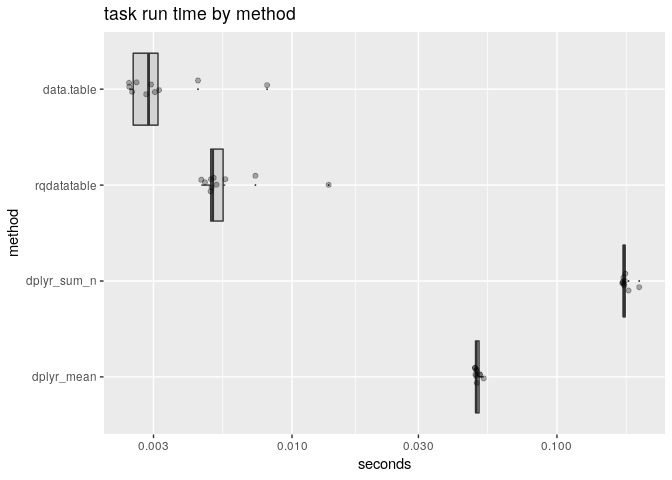
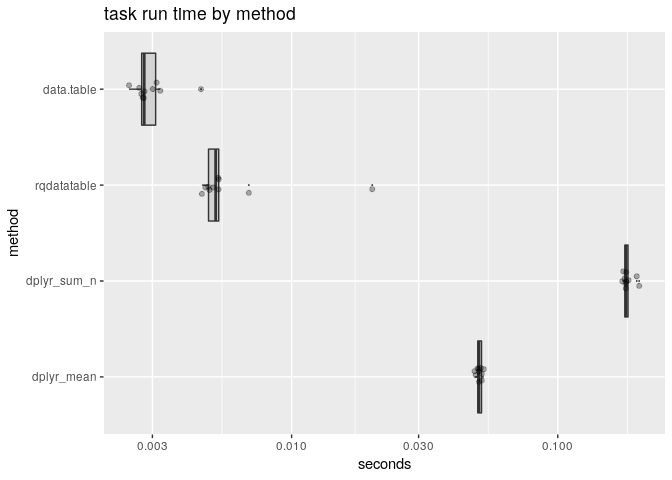
larger example

diff --git a/extras/TimingGroupedMean.md b/extras/TimingGroupedMean.md
@@ -110,15 +110,15 @@ print(timings)
 
     ## Unit: milliseconds
     ##         expr        min         lq       mean     median         uq
-    ##   dplyr_mean  49.044216  49.255479  50.118332  49.613274  51.134114
-    ##  dplyr_sum_n 176.818689 177.665255 181.987126 179.174948 180.996072
-    ##  rqdatatable   4.542537   4.930214   6.095619   5.016496   5.599747
-    ##   data.table   2.425419   2.489957   3.433191   2.874385   3.147625
+    ##   dplyr_mean  48.666778  49.936418  50.706373  50.533701  51.797656
+    ##  dplyr_sum_n 174.673685 178.183725 183.502817 180.411104 184.421786
+    ##  rqdatatable   4.604693   4.859366   6.713337   5.187235   5.326155
+    ##   data.table   2.451022   2.724500   3.010058   2.794454   3.111439
     ##         max neval
-    ##   52.935500    10
-    ##  204.358822    10
-    ##   13.749040    10
-    ##    8.048678    10
+    ##   52.715118    10
+    ##  202.182481    10
+    ##   20.082657    10
+    ##    4.568284    10
 
 ``` r
 res <- as.data.frame(timings)
@@ -134,10 +134,10 @@ res %.>%
 
 | method        |  mean\_seconds|
 |:--------------|--------------:|
-| dplyr\_mean   |      0.0501183|
-| data.table    |      0.0034332|
-| rqdatatable   |      0.0060956|
-| dplyr\_sum\_n |      0.1819871|
+| dplyr\_mean   |      0.0507064|
+| dplyr\_sum\_n |      0.1835028|
+| rqdatatable   |      0.0067133|
+| data.table    |      0.0030101|
 
 ``` r
 WVPlots::ScatterBoxPlotH(
@@ -182,7 +182,21 @@ timings2 = microbenchmark(
 
 ``` r
 print(timings2)
+```
 
+    ## Unit: milliseconds
+    ##         expr        min         lq       mean     median         uq
+    ##   dplyr_mean  9843.3586  9908.8161 10251.3212 10245.5254 10586.1296
+    ##  dplyr_sum_n 23797.5394 24024.5731 24571.9004 24885.6025 25062.4381
+    ##  rqdatatable   388.5662   410.4587   582.2213   415.2360   810.9741
+    ##   data.table   365.8645   375.7298   386.4544   395.3369   395.3741
+    ##         max neval
+    ##  10672.7764     5
+    ##  25089.3491     5
+    ##    885.8714     5
+    ##    399.9668     5
+
+``` r
 res2 <- as.data.frame(timings2)
 res2$seconds = res2$time/1e+9
 res2$method = res2$expr
@@ -192,15 +206,30 @@ res2 %.>%
               groupby = "method",
               mean_seconds = mean(seconds)) %.>%
   knitr::kable(.)
+```
 
+| method        |  mean\_seconds|
+|:--------------|--------------:|
+| data.table    |      0.3864544|
+| rqdatatable   |      0.5822213|
+| dplyr\_mean   |     10.2513212|
+| dplyr\_sum\_n |     24.5719004|
+
+``` r
 WVPlots::ScatterBoxPlotH(
   res2, 
   "seconds", "method", 
   "task run time by method (larger example)")
+```
 
+![](TimingGroupedMean_files/figure-markdown_github/present2-1.png)
+
+``` r
 WVPlots::ScatterBoxPlotH(
   res2,  
   "seconds", "method", 
   "task run time by method (larger example)") + 
   scale_y_log10()
 ```
+
+![](TimingGroupedMean_files/figure-markdown_github/present2-2.png)
